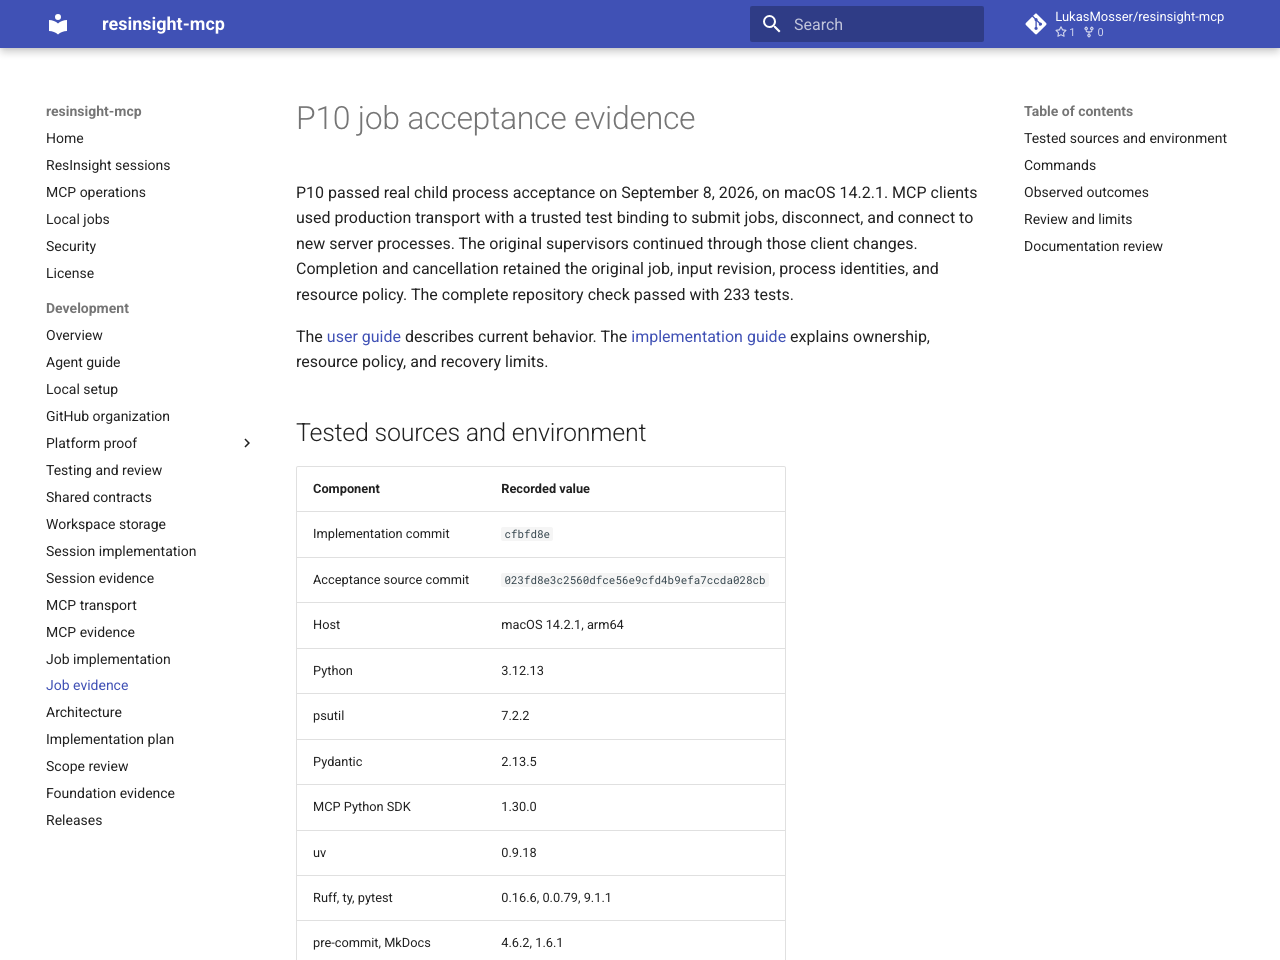
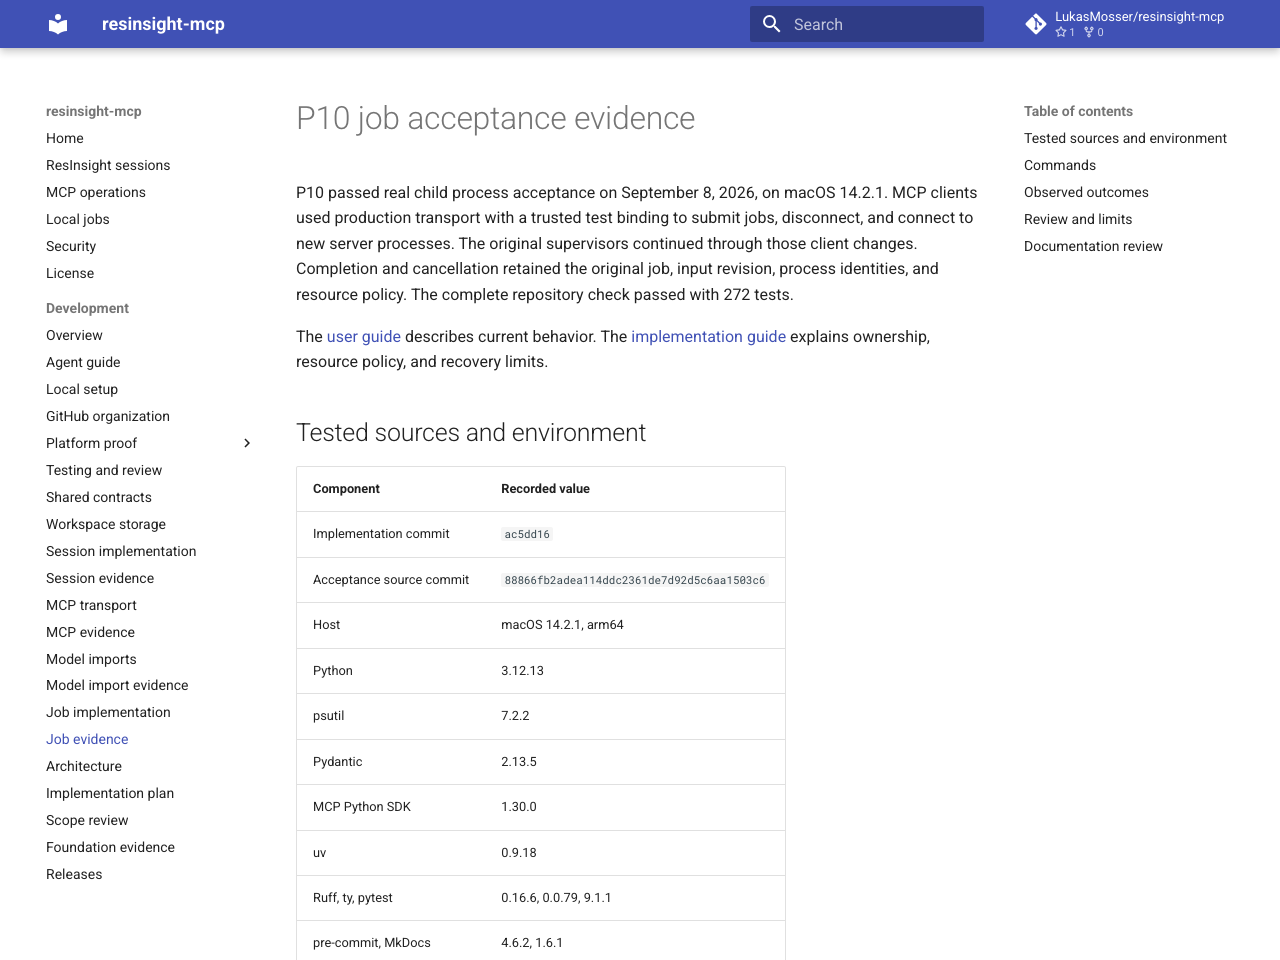
Verify durable jobs alongside model imports
Record the combined P07 and P10 source with 272 passing repository tests, 36 real job acceptance cases, and a successful documented example. Preserve the OPM dependency and model import navigation.

Clarify trusted input setup and record the bounded process inspection assertions. Refresh screenshots and evidence after the reviewed process test correction was folded into its logical change.

Changed region(s): [[0.0312, 0.6562, 0.1562, 0.9375], [0.4062, 0.5938, 0.5938, 0.625]]

diff --git a/docs/development/p10-evidence.md b/docs/development/p10-evidence.md
@@ -4,7 +4,7 @@ P10 passed real child process acceptance on September 8, 2026, on macOS 14.2.1.
 MCP clients used production transport with a trusted test binding to submit jobs, disconnect, and connect to new server processes.
 The original supervisors continued through those client changes.
 Completion and cancellation retained the original job, input revision, process identities, and resource policy.
-The complete repository check passed with 233 tests.
+The complete repository check passed with 272 tests.
 
 The [user guide](../jobs.md) describes current behavior.
 The [implementation guide](jobs.md) explains ownership, resource policy, and recovery limits.
@@ -13,8 +13,8 @@ The [implementation guide](jobs.md) explains ownership, resource policy, and rec
 
 | Component | Recorded value |
 | --- | --- |
-| Implementation commit | `cfbfd8e` |
-| Acceptance source commit | `023fd8e3c2560dfce56e9cfd4b9efa7ccda028cb` |
+| Implementation commit | `ac5dd16` |
+| Acceptance source commit | `88866fb2adea114ddc2361de7d92d5c6aa1503c6` |
 | Host | macOS 14.2.1, arm64 |
 | Python | 3.12.13 |
 | psutil | 7.2.2 |
@@ -47,7 +47,7 @@ LC_ALL=en_US.UTF-8 \
 uv run --locked python scripts/check.py
 ```
 
-Ruff, formatting, ty, all 233 tests, and the strict documentation build passed.
+Ruff, formatting, ty, all 272 tests, and the strict documentation build passed.
 The implementation commit also passed the repository pre-commit hook.
 The [shared check log](evidence/p10/shared-check.log) preserves final documentation checks with the application suite.
 The [guide example record](evidence/p10/guide-example.json) records successful execution of the documented Python example.
@@ -86,7 +86,7 @@ The maintained cases are in [service tests](https://github.com/LukasMosser/resin
 The [MCP acceptance test](https://github.com/LukasMosser/resinsight-mcp/blob/main/tests/jobs/test_mcp_acceptance.py) uses the [trusted server fixture](https://github.com/LukasMosser/resinsight-mcp/blob/main/tests/jobs/mcp_server.py).
 The fixture supplies the actual workspace store and job controller to production `serve_stdio()`.
 This proves the configured MCP job operations, not a complete simulator workflow through the default server.
-The default server still needs job service composition and trusted simulator preparation.
+The default server still needs job service composition and trusted input preparation.
 
 ## Review and limits
 
@@ -94,6 +94,11 @@ Independent reviews assessed duplicate state, branching, ownership, coupling, te
 Review found and corrected races in supervisor claiming, launch acknowledgement, deadline handling, process inspection, and thread startup.
 Synchronized regression cases establish the corrected behavior with real commands.
 Workspace persistence remains the single durable source of job state.
+
+A changed host process census exposed a one-shot assertion in the process tests.
+Those assertions now wait within a fixed deadline for the first successful inspection.
+Permanent errors and exact result checks remain intact.
+Three focused trials passed after the correction.
 
 The explicit `wall_time_only` policy enforces the wall deadline and records CPU and memory requests without enforcement.
 The default `enforce` policy fails before durable submission or child creation.

diff --git a/docs/development/jobs.md b/docs/development/jobs.md
@@ -1,7 +1,8 @@
 # Durable job implementation
 
 An agent uses configured MCP job operations to submit work, reconnect, inspect progress, and request cancellation.
-The default server still requires a job controller, a trusted command resolver, and simulator preparation before this workflow can run.
+The default server requires a job controller and a trusted command resolver.
+Prepared input records come from a simulator adapter or trusted Python setup.
 The `jobs` package supplies execution for trusted commands in one local workspace on macOS and Linux.
 
 `DurableJobController` owns submission, stored observation, cancellation intent, and explicit reconciliation.
